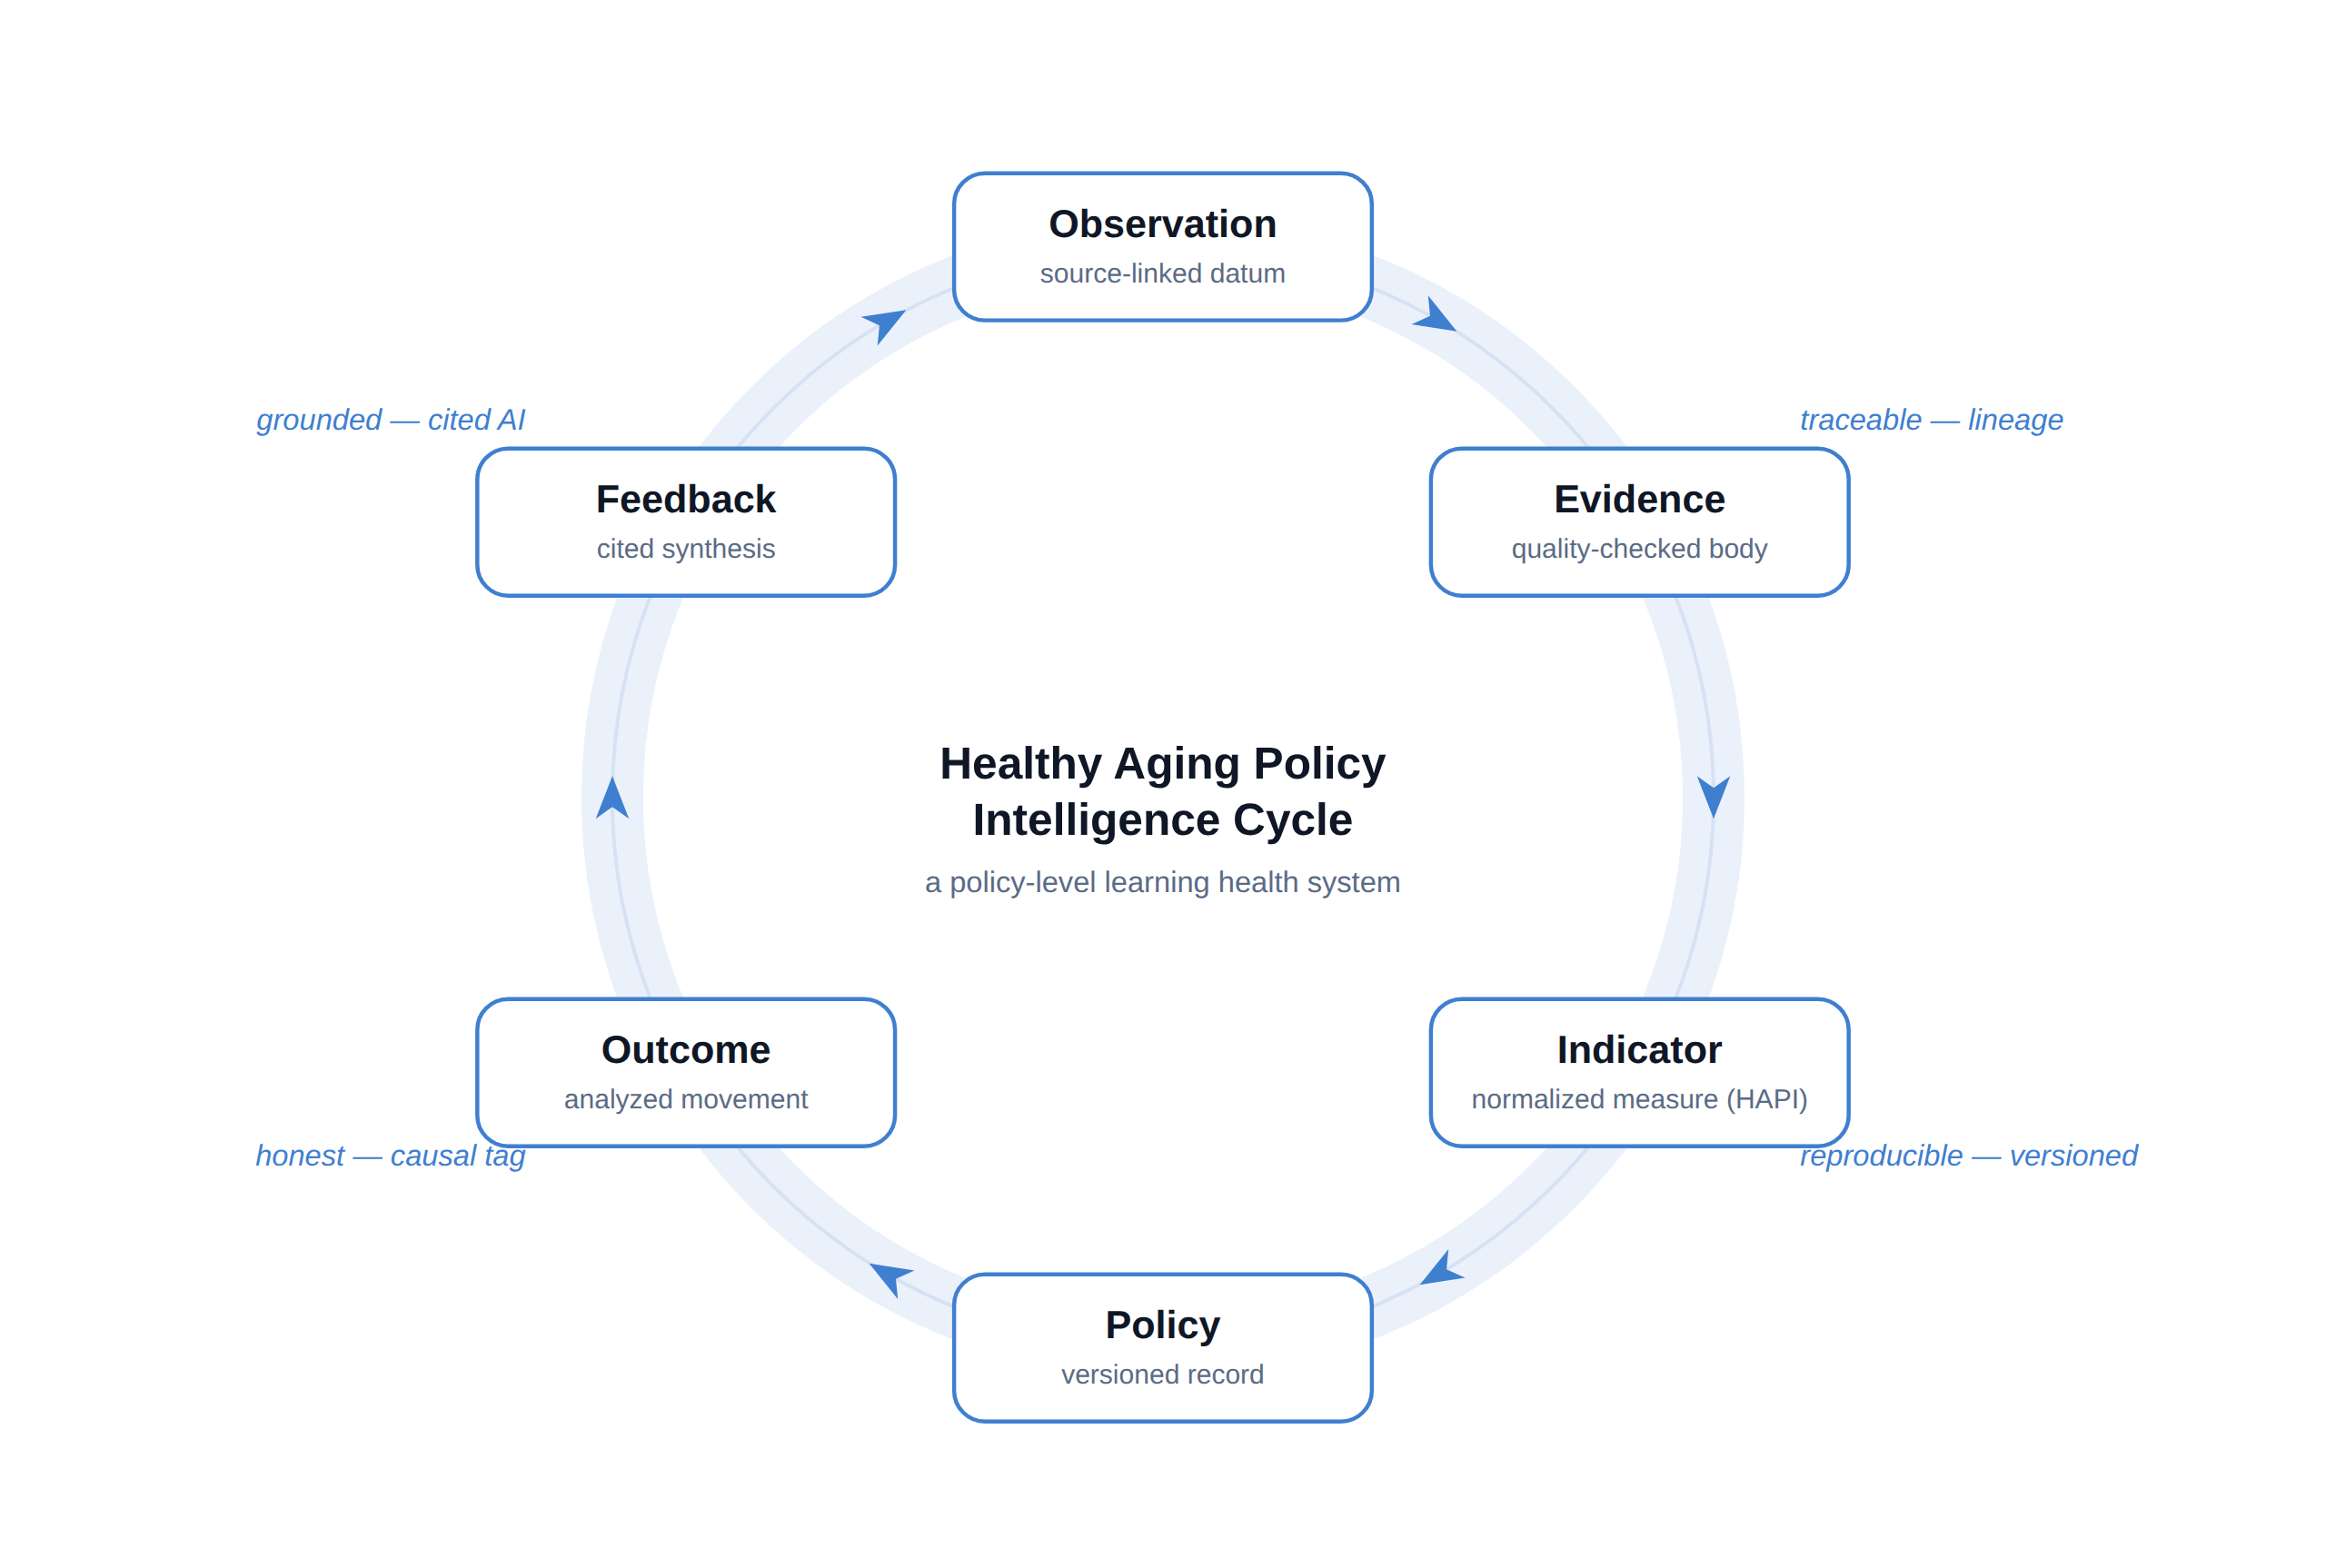
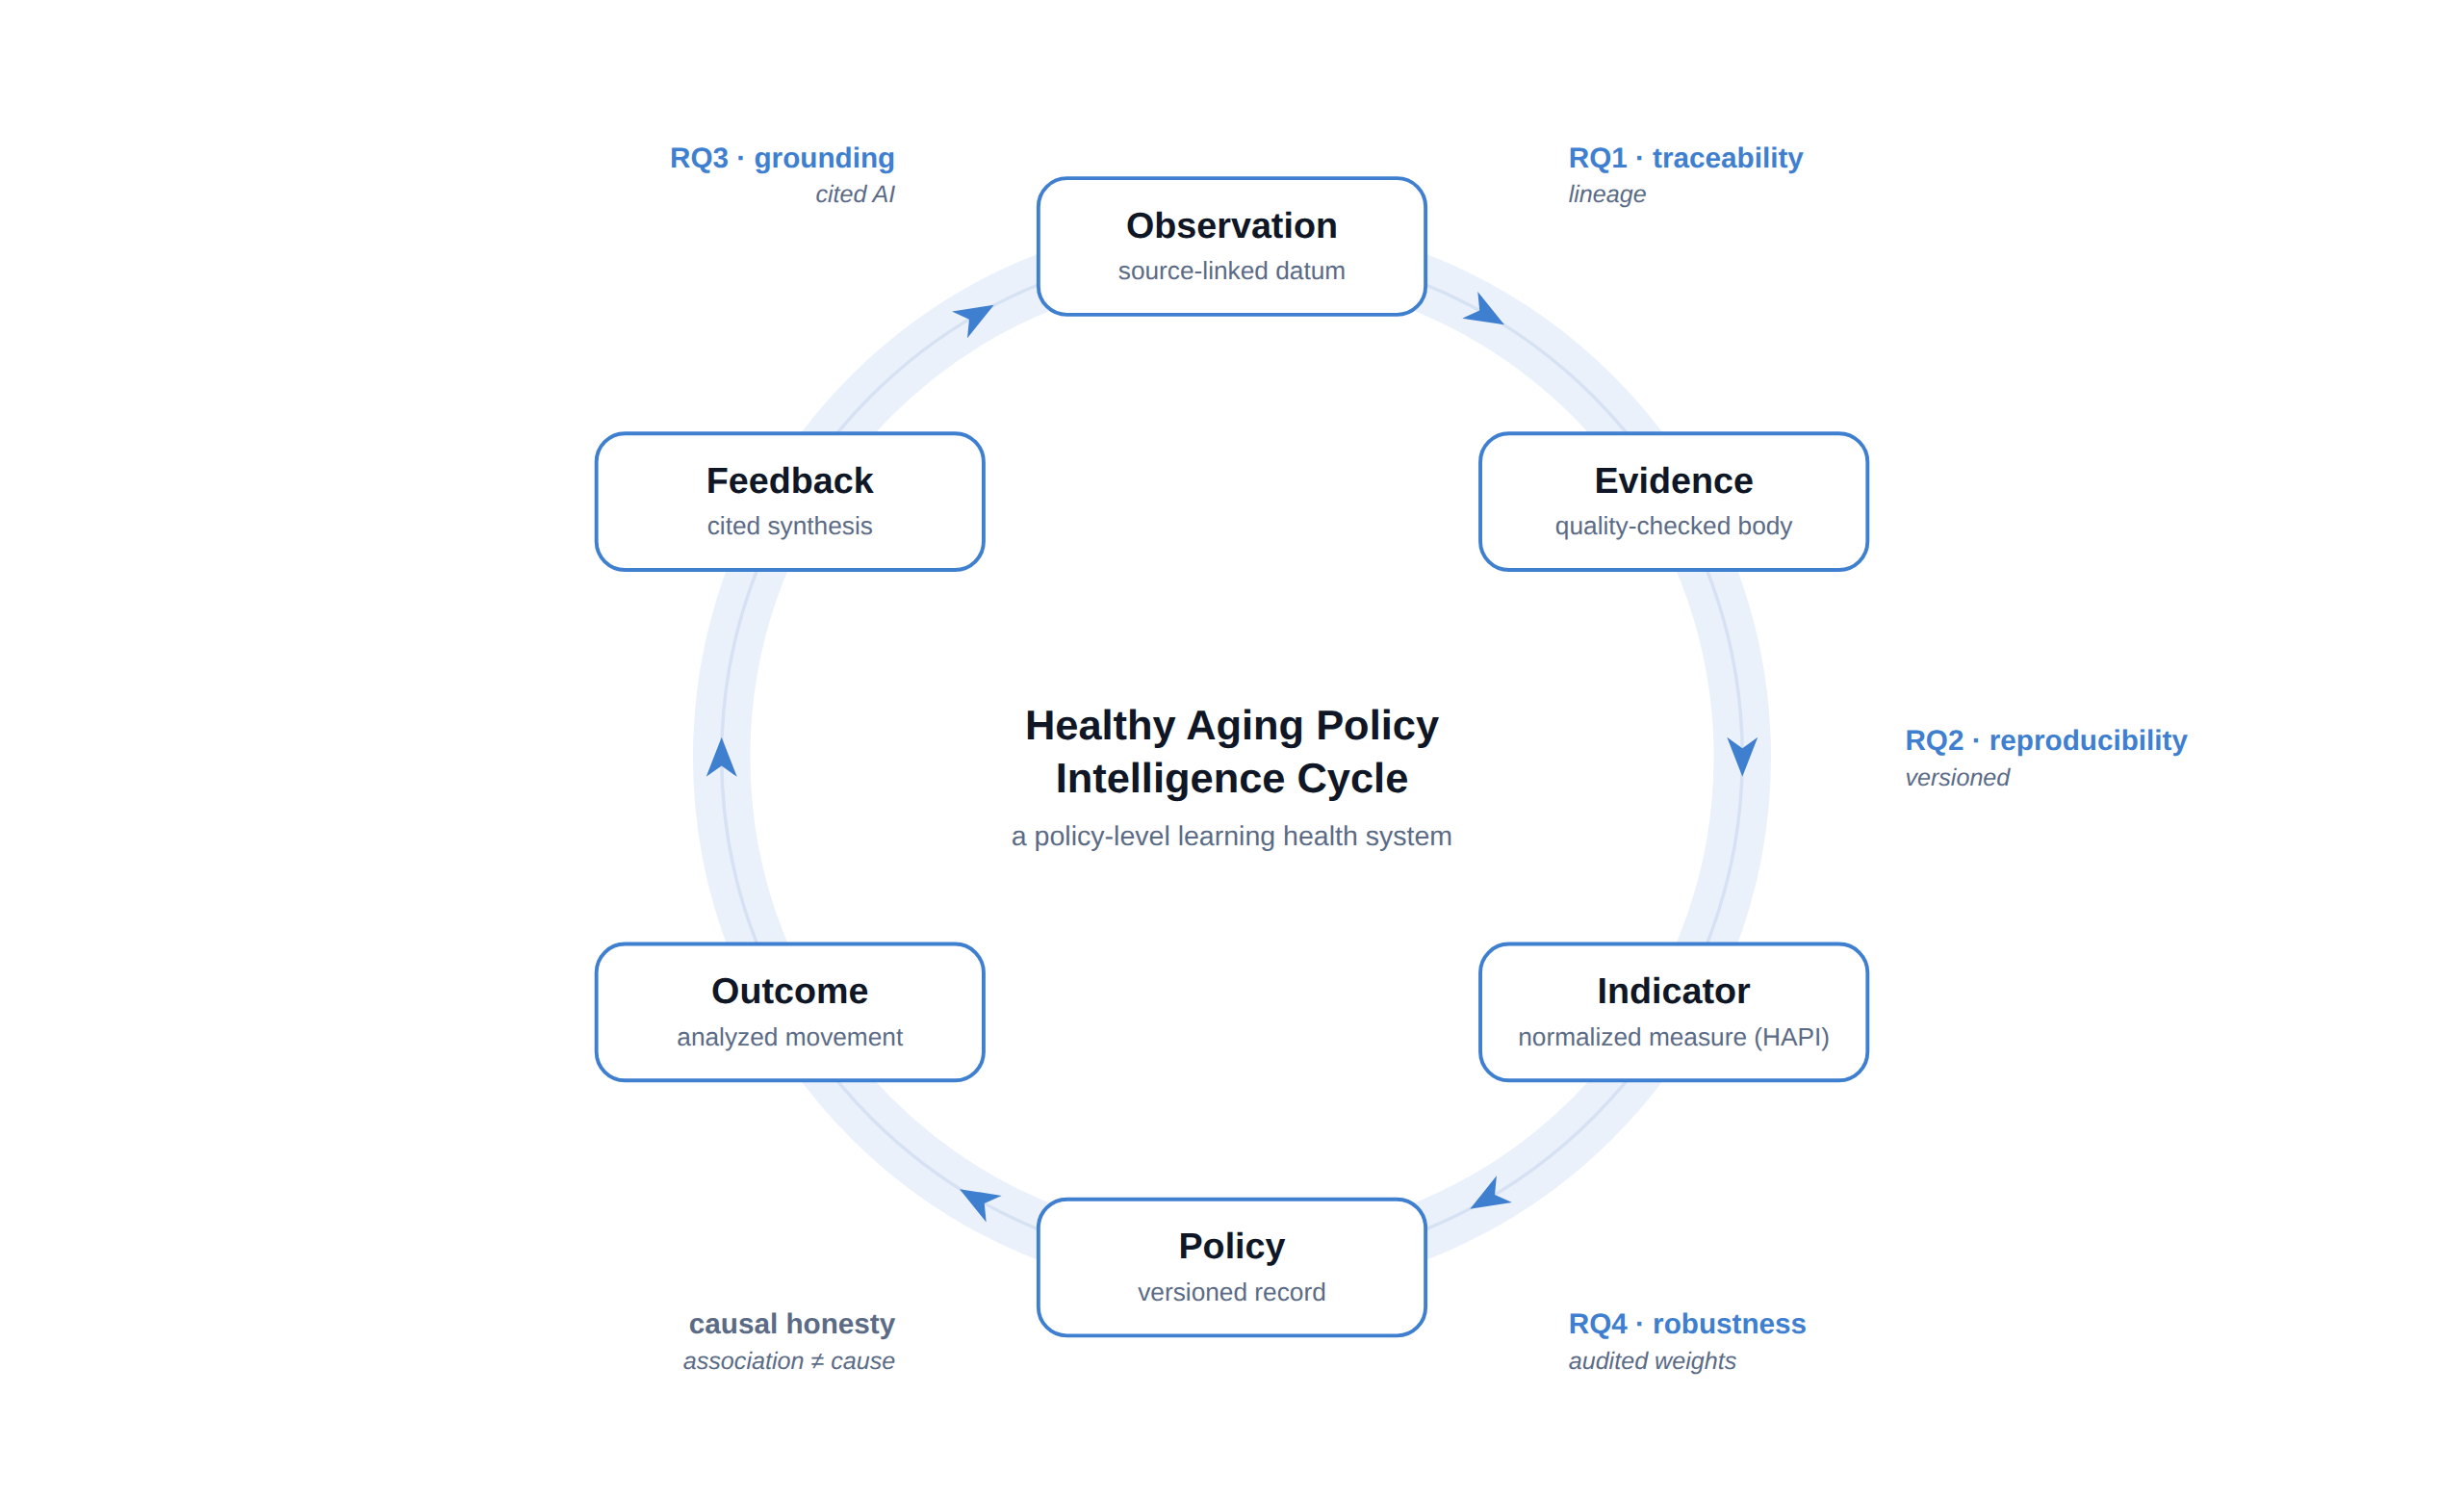
Paper 1: nail the gap, add socio-technical framing + scale caveat, map RQs onto Figure 1
Reviewer punch-list (targeted, non-expanding):
- §2: add an explicit 'The gap' statement — no prior work unifies provenance-first
  infrastructure, reproducibility-by-construction, grounded AI, and causal
  discipline into one healthy-aging policy observatory.
- §1.2: frame the observatory as a socio-technical system (data + AI + researchers
  + agencies + government), strengthening the health-informatics positioning.
- Abstract + §9: state plainly that this is an initial NS+federal implementation at
  demonstration scale; provincial scaling is future work the architecture enables.
- Figure 1: place RQ1-RQ4 at their cycle positions so theory -> design ->
  evaluation closes on one figure; update the caption. Rebuild PDF.

diff --git a/papers/paper-1-observatory-design/figures/gen_cycle.py b/papers/paper-1-observatory-design/figures/gen_cycle.py
@@ -10,8 +10,8 @@ from __future__ import annotations
 import math
 import os
 
-W, H = 980, 660
-CX, CY = 490, 336
+W, H = 1120, 680
+CX, CY = 560, 344
 R = 232                      # node-centre ring radius
 NW, NH = 176, 62             # node box
 
@@ -24,13 +24,19 @@ STAGES = [
     ("Feedback", "cited synthesis"),
 ]
 
-# Trust-hardening callouts keyed by the stage index they sit next to.
-CALLOUTS = {
-    1: "traceable — lineage",       # Observation → Evidence
-    2: "reproducible — versioned",  # Indicator
-    4: "honest — causal tag",       # Outcome
-    5: "grounded — cited AI",       # Feedback
-}
+# Trust-hardening callouts placed by angle (deg). Four carry the design-evaluation
+# question they answer (§7); Outcome's causal honesty is a design discipline, not one
+# of the four numbered RQs. This makes Theory → Design → Evaluation close visibly.
+#   node angles: Observation -90, Evidence -30, Indicator 30, Policy 90,
+#                Outcome 150, Feedback 210(=-150)
+# Placed in the gaps between nodes (on the transitions) so they never overlap a box.
+CALLOUTS = [
+    (-60, "RQ1 · traceability", "lineage"),          # Observation → Evidence
+    (0,   "RQ2 · reproducibility", "versioned"),     # Evidence → Indicator
+    (60,  "RQ4 · robustness", "audited weights"),    # Indicator → (measure stage)
+    (120, "causal honesty", "association ≠ cause"),  # Outcome (design discipline)
+    (240, "RQ3 · grounding", "cited AI"),            # Feedback
+]
 
 ACCENT = "#3f7fd0"
 INK = "#0f1726"
@@ -90,17 +96,20 @@ def main() -> None:
         f'fill="{MUTED}">a policy-level learning health system</text>'
     )
 
-    # Callout labels (outside the ring).
-    for i, text in CALLOUTS.items():
-        lx, ly = pt(angles[i], R + 78)
-        anchor = "middle"
-        if math.cos(math.radians(angles[i])) > 0.3:
-            anchor = "start"
-        elif math.cos(math.radians(angles[i])) < -0.3:
-            anchor = "end"
+    # Callout labels (outside the ring): an RQ/discipline tag + its property.
+    for ang, label, sub in CALLOUTS:
+        lx, ly = pt(ang, R + 74)
+        c = math.cos(math.radians(ang))
+        anchor = "start" if c > 0.3 else ("end" if c < -0.3 else "middle")
+        is_rq = label.startswith("RQ")
+        color = ACCENT if is_rq else MUTED
         parts.append(
-            f'<text x="{lx:.1f}" y="{ly:.1f}" text-anchor="{anchor}" '
-            f'font-size="12.5" font-style="italic" fill="{ACCENT}">{text}</text>'
+            f'<text x="{lx:.1f}" y="{ly-3:.1f}" text-anchor="{anchor}" '
+            f'font-size="13" font-weight="700" fill="{color}">{label}</text>'
+        )
+        parts.append(
+            f'<text x="{lx:.1f}" y="{ly+13:.1f}" text-anchor="{anchor}" '
+            f'font-size="11" font-style="italic" fill="{MUTED}">{sub}</text>'
         )
 
     # Nodes.

diff --git a/papers/paper-1-observatory-design/paper.md b/papers/paper-1-observatory-design/paper.md
@@ -26,8 +26,10 @@ and are composite comparisons robust to method choices (robustness). We present 
 Canadian Healthy Aging Policy Observatory, whose data model makes provenance
 structural (immutable observations bound to versioned, content-addressed dataset
 snapshots) and whose analytics enforce an association-versus-causation distinction in
-software. Instantiated on Nova Scotia and the federal level with a Care Access focus,
-the instrument answers the design questions affirmatively: 100% of published values
+software. Instantiated on Nova Scotia and the federal level with a Care Access focus — an
+initial implementation, with scaling across provinces as future work the
+architecture enables — the instrument answers the design questions affirmatively:
+100% of published values
 resolve to an upstream source, the pipeline reproduces deterministically from
 committed inputs, the assistant cannot cite outside a fixed evidence pack, and the
 headline index ordering is invariant across three weighting schemes (composite spread
@@ -86,9 +88,12 @@ instrument, and its design mirrors a core health-informatics idea: the **Learnin
 Health System** (LHS) [11], in which data generate knowledge that improves practice
 and thereby generates new data, in a continuous loop. Where a clinical LHS closes that
 loop around care delivery, the observatory closes it around *policy* — an LHS for
-healthy-aging governance. Reading the design through evidence, knowledge translation,
-and decision support is what makes it a health-informatics contribution rather than a
-software-engineering one.
+healthy-aging governance. An observatory is, moreover, a **socio-technical system**:
+it couples data and AI infrastructure with the researchers, agencies, and governments
+whose practices it must fit, so its hardest design challenges are as much
+organizational — trust, provenance, honest communication — as computational. Reading
+the design through evidence, knowledge translation, and decision support is what makes
+it a health-informatics contribution rather than a software-engineering one.
 
 ### 1.3 Research questions
 
@@ -151,6 +156,15 @@ citations and unsupported claims. Our assistant constrains the model to cite *on
 items in a pre-assembled evidence pack, making fabrication structurally detectable;
 the framework is developed in Paper 3.
 
+**The gap.** These bodies of work each cover one facet and stop at its edge:
+existing aging observatories and indicator dashboards focus on *reporting* measures;
+composite-index research focuses on *measurement*; policy-evaluation studies focus on
+*single interventions*; and Learning Health System work targets primarily *clinical
+care*. To our knowledge, no existing system integrates provenance-first
+infrastructure, reproducibility by construction, grounded AI, and an explicit causal
+discipline into a *unified* observatory for healthy-aging policy. That integration —
+not any single component — is the gap this design fills.
+
 ## 3. Conceptual framework: the Healthy Aging Policy Intelligence Cycle
 
 The design is organized by a conceptual model that doubles as its theory of value.
@@ -159,8 +173,11 @@ Healthy-aging policy intelligence is a cycle of six stages (Figure 1):
 ![Figure 1](figures/intelligence-cycle.png)
 
 > **Figure 1.** The Healthy Aging Policy Intelligence Cycle. Six stages form a closed
-> loop; the italic labels mark the four points where the design hardens trust
-> (traceability, reproducibility, causal honesty, and grounding).
+> loop; the outer labels mark where the design hardens trust and which
+> design-evaluation question (§1.3, §7) each answers — RQ1 traceability, RQ2
+> reproducibility, RQ4 robustness, RQ3 grounding — with the Outcome stage's causal
+> honesty as an additional discipline. Theory (the cycle), design (the modules), and
+> evaluation (the RQs) thus close on one figure.
 
 - **Observation** — an immutable, source-linked datum ingested from an upstream table.
 - **Evidence** — observations assembled and quality-checked into an interpretable
@@ -392,9 +409,13 @@ restarts — the strategic point of building an instrument rather than a study.
 
 ## 9. Limitations and ethics
 
-**Limitations.** (1) *Coverage.* With two jurisdictions, the empirical weighting and any
-cross-jurisdiction inference are indicative; the design's value is in the method and
-its additive extensibility. (2) *Normalization ranges are choices.* Min-max reference
+**Limitations.** (1) *Coverage — an initial implementation.* This paper evaluates the
+*design* on a deliberately small slice: two jurisdictions and a demonstration-scale
+corpus (26 policies, 231 observations). The empirical weighting and any
+cross-jurisdiction inference are therefore indicative, and the results should not be
+read as a mature observatory. The design's value is in the method and its additive
+extensibility: adding a province is a row insert plus one connector, so scaling is
+future work the architecture enables rather than a redesign. (2) *Normalization ranges are choices.* Min-max reference
 ranges are documented and contestable; RQ4's robustness check mitigates but does not
 eliminate this — a composite index is a lens, not a measurement. (3) *Causal
 identification.* ITS and related designs rest on assumptions (no coincident shocks,